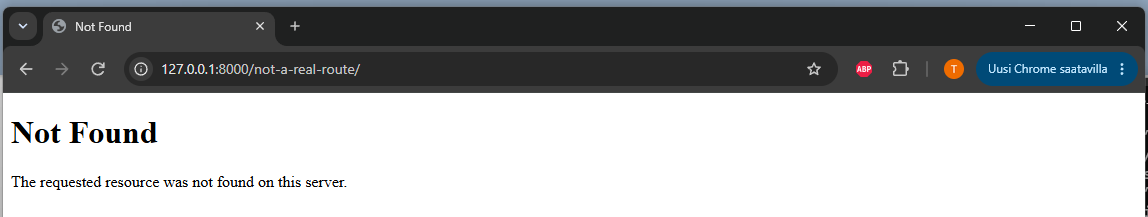
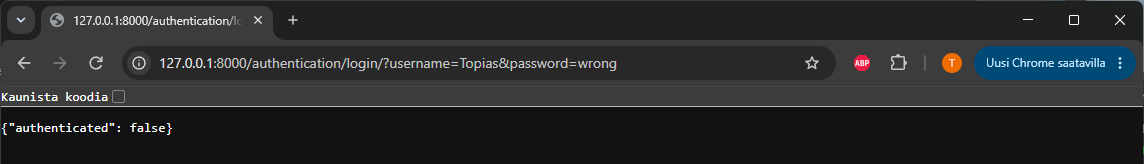
changed screeshot names to form demanded, updated README.md

diff --git a/README.md b/README.md
@@ -57,18 +57,18 @@ Open <http://127.0.0.1:8000/>. The load_sample_data command creates two harmless
 
 ## A01 Broken Access Control
 
-![FlawA01-view](./screenshots/A01_view.png)
+![Flaw-1-view](./screenshots/A01_view.png)
 
 Before fixing the flaw, both notes are readable for everyone.
 
-![FlawA01-before](./screenshots/flaw-1-before-1.png)
-![FlawA01-before](./screenshots/flaw-1-before-2.png)
+![Flaw-1-before](./screenshots/flaw-1-before-1.png)
+![Flaw-1-before](./screenshots/flaw-1-before-2.png)
 
 After uncommenting the fix code ([views.py lines 51-52](./src/views.py#L51)) and commenting away vulnerabile code ([views.py line 46](./src/views.py#L46)).
 Neither of the notes are readable.
 
-![FlawA01-after](./screenshots/flaw-1-after-1.png)
-![FlawA01-after](./screenshots/flaw-1-after-2.png) 
+![Flaw-1-after](./screenshots/flaw-1-after-1.png)
+![Flaw-1-after](./screenshots/flaw-1-after-2.png) 
 
 Using "go back" in browser keeps you logged in session.
 
@@ -76,19 +76,19 @@ Using "go back" in browser keeps you logged in session.
 
 After logging is as "Topias" you are able to see only note owned by Topias.
 
-![FlawA01-after](./screenshots/flaw-1-after-4.png)
+![Flaw-1-after](./screenshots/flaw-1-after-4.png)
 
 Changing number ID in url doesnt work anymore.
 
-![FlawA01-after](./screenshots/flaw-1-after-2.png)
+![Flaw-1-after](./screenshots/flaw-1-after-2.png)
 
 ## A02 Cryptographic Failures
 
-![flawA02-view](./screenshots/A02_view.png)
+![flaw-2-view](./screenshots/A02_view.png)
 
 Using the link "Expose credentials" shows you all the users with their hashed passwords. 
 
-![FlawA02-before](./screenshots/flaw-2-before-1.png)
+![Flaw-2-before](./screenshots/flaw-2-before-1.png)
 
 There is two issues with this exposure. weak password hashing using MD5 function. It is not viable for passwords. The second issue is that we show hashed password for user. There is an possibility that users can reverse engineer the hashed password to unhashed password.
 
@@ -105,7 +105,7 @@ python3 manage.py load_sample_data
 These commands will redo our database with stronger password hashing.
 After running program again and Using the link "expose credentials". It will show 
 
-![FlawA02-after](./screenshots/flaw-2-after-1.png)
+![Flaw-2-after](./screenshots/flaw-2-after-1.png)
 
 You need to login.
 
@@ -113,44 +113,44 @@ You need to login.
 
 After logging in The "expose credentials will show only your username. Were using tougher password hash but we wont show it. 
 
-![FlawA02-after](./screenshots/flaw-2-after-3.png)
+![Flaw-2-after](./screenshots/flaw-2-after-3.png)
 
 ## A03 Injection
 
-![FlawA03-view](./screenshots/A03_view.png)
+![Flaw-3-view](./screenshots/A03_view.png)
 If you are logged in you will only see note owned by Topias.
 
-![FlawA03-before](./screenshots/flaw-3-before-2.png)
+![Flaw-3-before](./screenshots/flaw-3-before-2.png)
 
 If not logged in. Use "log in as topias" link and backtrack in browser
 
-![FlawA03-view](./screenshots/flaw-3-before-1.png)
+![Flaw-3-view](./screenshots/flaw-3-before-1.png)
 
  Unless you use ' OR 1=1 --
 
-![FlawA03-before](./screenshots/flaw-3-before-3.png)
+![Flaw-3-before](./screenshots/flaw-3-before-3.png)
 
 This command will show you all the notes no matter who owns it.
 
-![FlawA03-view](./screenshots/flaw-3-before-4.png)
+![Flaw-3-view](./screenshots/flaw-3-before-4.png)
 
 To fix this issue you must uncomment ([views.py lines 99-110](./src/views.py#L99)) and comment away ([views.py lines 82-94](./src/views.py#L82))
 
 After using fix code 
 
-![FlawA03-after](./screenshots/flaw-3-after-1.png)
+![Flaw-3-after](./screenshots/flaw-3-after-1.png)
 
 Will result
 
-![FlawA03-after](./screenshots/flaw-3-after-2.png)
+![Flaw-3-after](./screenshots/flaw-3-after-2.png)
 
 ## A05 Security Misconfiguration
 
-![FlawA05-view](./screenshots/A05_view.png)
+![Flaw-5-view](./screenshots/A05_view.png)
 
 This is usual mistake made when pushing from development branch to Main. Use "Not a real route" link to see the issue.
 
-![FlawA05-before](./screenshots/flaw-5-before-1.png)
+![Flaw-4-before](./screenshots/flaw-4-before-1.png)
 
 Too much data is again shown to users. But easy to fix issue. We just swap program to use .env file. Lets comment away ([settings.py lines 9-11](./cyberlab/settings.py#L9)) And uncomment ([settings.py lines 15-23](./cyberlab/settings.py#L15))
 
@@ -177,20 +177,20 @@ These commands will make program get enviroment variables from .env file. After 
 
 Using the link "Not a real route" again shows a lot less to user.
 
-![FlawA05-after](./screenshots/flaw-5-after-1.png)
+![Flaw-5-after](./screenshots/flaw-4-after-1.png)
 
 
 ## A07 Identification and Authentication Failures
 
-![FlawA07-view](./screenshots/A07_view.png)
+![Flaw-7-view](./screenshots/A07_view.png)
 
 Vulnerability in login function. anyone can login if you know any used username. Only checks username not password.
 
-![FlawA07-before](./screenshots/flaw-7-before-1.png)
+![Flaw-7-before](./screenshots/flaw-5-before-1.png)
 
 As seen "password_was_checked": false. Commenting away ([views.py lines 124-133](./src/views.py#L124)) and uncommenting ([views.py lines 139-144](./src/views.py#L139)). We activate password check.
 
-![FlawA07-after](./screenshots/flaw-7-after-1.png)
+![Flaw-7-after](./screenshots/flaw-5-after-1.png)
 
 While the fix is on. 
 
